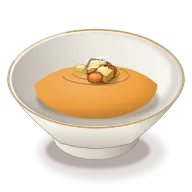
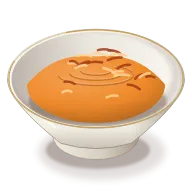
マッシュを小さい大きさで見分けられるようにした（じゃがいも・豆・にんじん、10品）
- じゃがいも: 淡い黄の山に、まん中のくぼみと溶けたバター（チャンプは青ねぎを多く）
- 豆（マッシーピー）: 緑の山に、粒が見える
- にんじん・スウィード・かぼちゃ（キベベ）: 橙の山に、明るいすじと濃いすじ
- 山を高く広くして、お膳の 48〜64px でも色と形で分かるようにした（W.make の mash）
- 基準書 8. に書き足した
- bluecheck 0 品・画素の青 0 品

Claude-Session: https://claude.ai/code/session_019mhum2xsvshQ35w91Npja8

Changed region(s): [[0.125, 0.25, 0.875, 0.6562]]

diff --git a/docs/illustration_3q.md b/docs/illustration_3q.md
@@ -225,7 +225,7 @@
 - 煮込み（カルビチム・タッポックムタン・チャンジョリムなど）は、汁物と見分けがつくよう、深い鉢でなく縁のある深皿に、煮汁を少なくして具を口より高く山に盛る（2回目の見直し）。
 - 炒め物は皿の白が目立たないよう、具を大きく（1.3倍）多めに山盛りにする（`W.plateHeap`）。煮込み（紅焼・滷・kho・ブルギニョンなど）は具ひとつずつに細い焦げ茶の縁と照りの弧をつけ、茶色の塊に見えないようにする（`W.braise`・`W.piece`）（2026-10-29 統括の見直し）。
 - インドから先の国は、材料の種類ごとの具の辞書 `W.ING` と盛りつけの組み立て `W.make`（平皿に山盛り `plate`・鉢に山盛り `bowl`・山高の煮込み `braise`・汁物 `soup`。ご飯 `rice`・麺 `noodle`・かゆ `porr` の土台つき）で描く。国だけの具は各ファイルの `ing` に足す。
-- 見分けやすくする（2026-10-29 統括の見直し 4回目）: ポタージュと豆のスープは、まん中に何のスープか分かる具（かぼちゃと種・マッシュルーム・ブロッコリー・豆・レンズ豆など）を小さな山にのせる（`W.make` の `top`）。焼き物（グラタン・パイ・ムサカ）は、手前右をひとすくい取って切り口に中の層（じゃがいも・ひき肉・ベシャメル・マカロニ）を見せ、グラタンは濃い焼き色の斑、パイは生地を山にふくらませて縁に指の波と空気穴をつける（`W.bake` の `scoop`・`blister`・`dome`）。小鉢のサラダ・和えものは具を1.3倍に大きく、1.7倍に多く盛り、山を高くして鉢の白が見えないようにする（`W.make` の `bowl`）。カツ類は細かいパン粉の粒と、切れ目に白い中身を見せる（`W.cutlet`）。ピーマンの肉詰めは縦の筋と切り口の詰めもの・へたのふた（`W.bellPepper`）、ローストビーフは外が焦げ茶で中がばら色の薄切りを扇に重ねる。チャツネ・ディップ・ピュレは平らに盛って、へらで回した溝（`groove`）と油のたまり（`oilTop`）をつけ、まん中に何で作ったか分かる飾り（ひよこ豆・焼きなす・ミント・ココナッツ・アボカド・じゃがいもなど。`crown`）をのせる。
+- 見分けやすくする（2026-10-29 統括の見直し 4回目）: ポタージュと豆のスープは、まん中に何のスープか分かる具（かぼちゃと種・マッシュルーム・ブロッコリー・豆・レンズ豆など）を小さな山にのせる（`W.make` の `top`）。焼き物（グラタン・パイ・ムサカ）は、手前右をひとすくい取って切り口に中の層（じゃがいも・ひき肉・ベシャメル・マカロニ）を見せ、グラタンは濃い焼き色の斑、パイは生地を山にふくらませて縁に指の波と空気穴をつける（`W.bake` の `scoop`・`blister`・`dome`）。小鉢のサラダ・和えものは具を1.3倍に大きく、1.7倍に多く盛り、山を高くして鉢の白が見えないようにする（`W.make` の `bowl`）。カツ類は細かいパン粉の粒と、切れ目に白い中身を見せる（`W.cutlet`）。ピーマンの肉詰めは縦の筋と切り口の詰めもの・へたのふた（`W.bellPepper`）、ローストビーフは外が焦げ茶で中がばら色の薄切りを扇に重ねる。チャツネ・ディップ・ピュレは平らに盛って、へらで回した溝（`groove`）と油のたまり（`oilTop`）をつけ、まん中に何で作ったか分かる飾り（ひよこ豆・焼きなす・ミント・ココナッツ・アボカド・じゃがいもなど。`crown`）をのせる。マッシュはお膳の 48〜64px で見分けられるよう、じゃがいも＝淡い黄にくぼみと溶けたバター、豆＝緑に粒、にんじん・かぼちゃ＝橙にすじ（`mash`）。
 
 | 国 | 器 | 料理 |
 |---|---|---|
